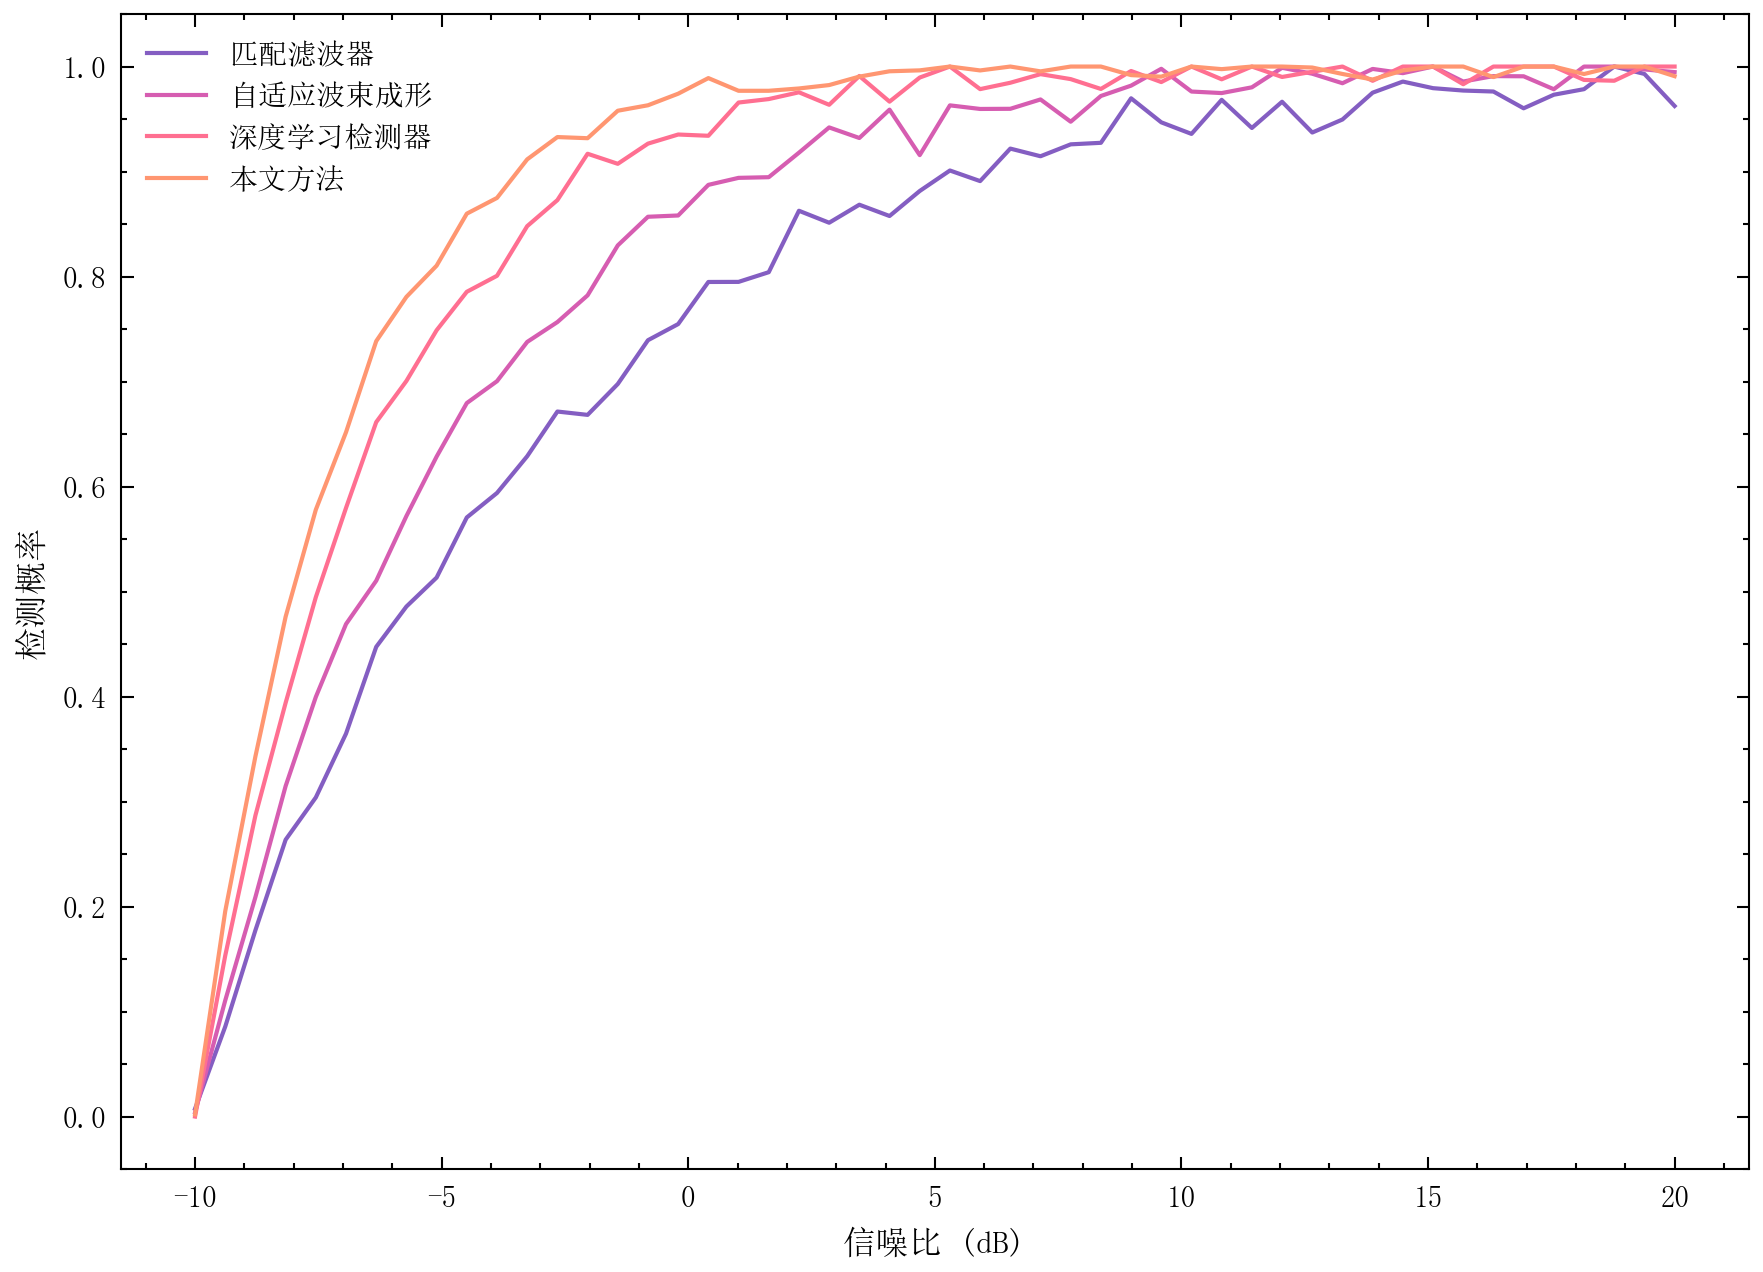
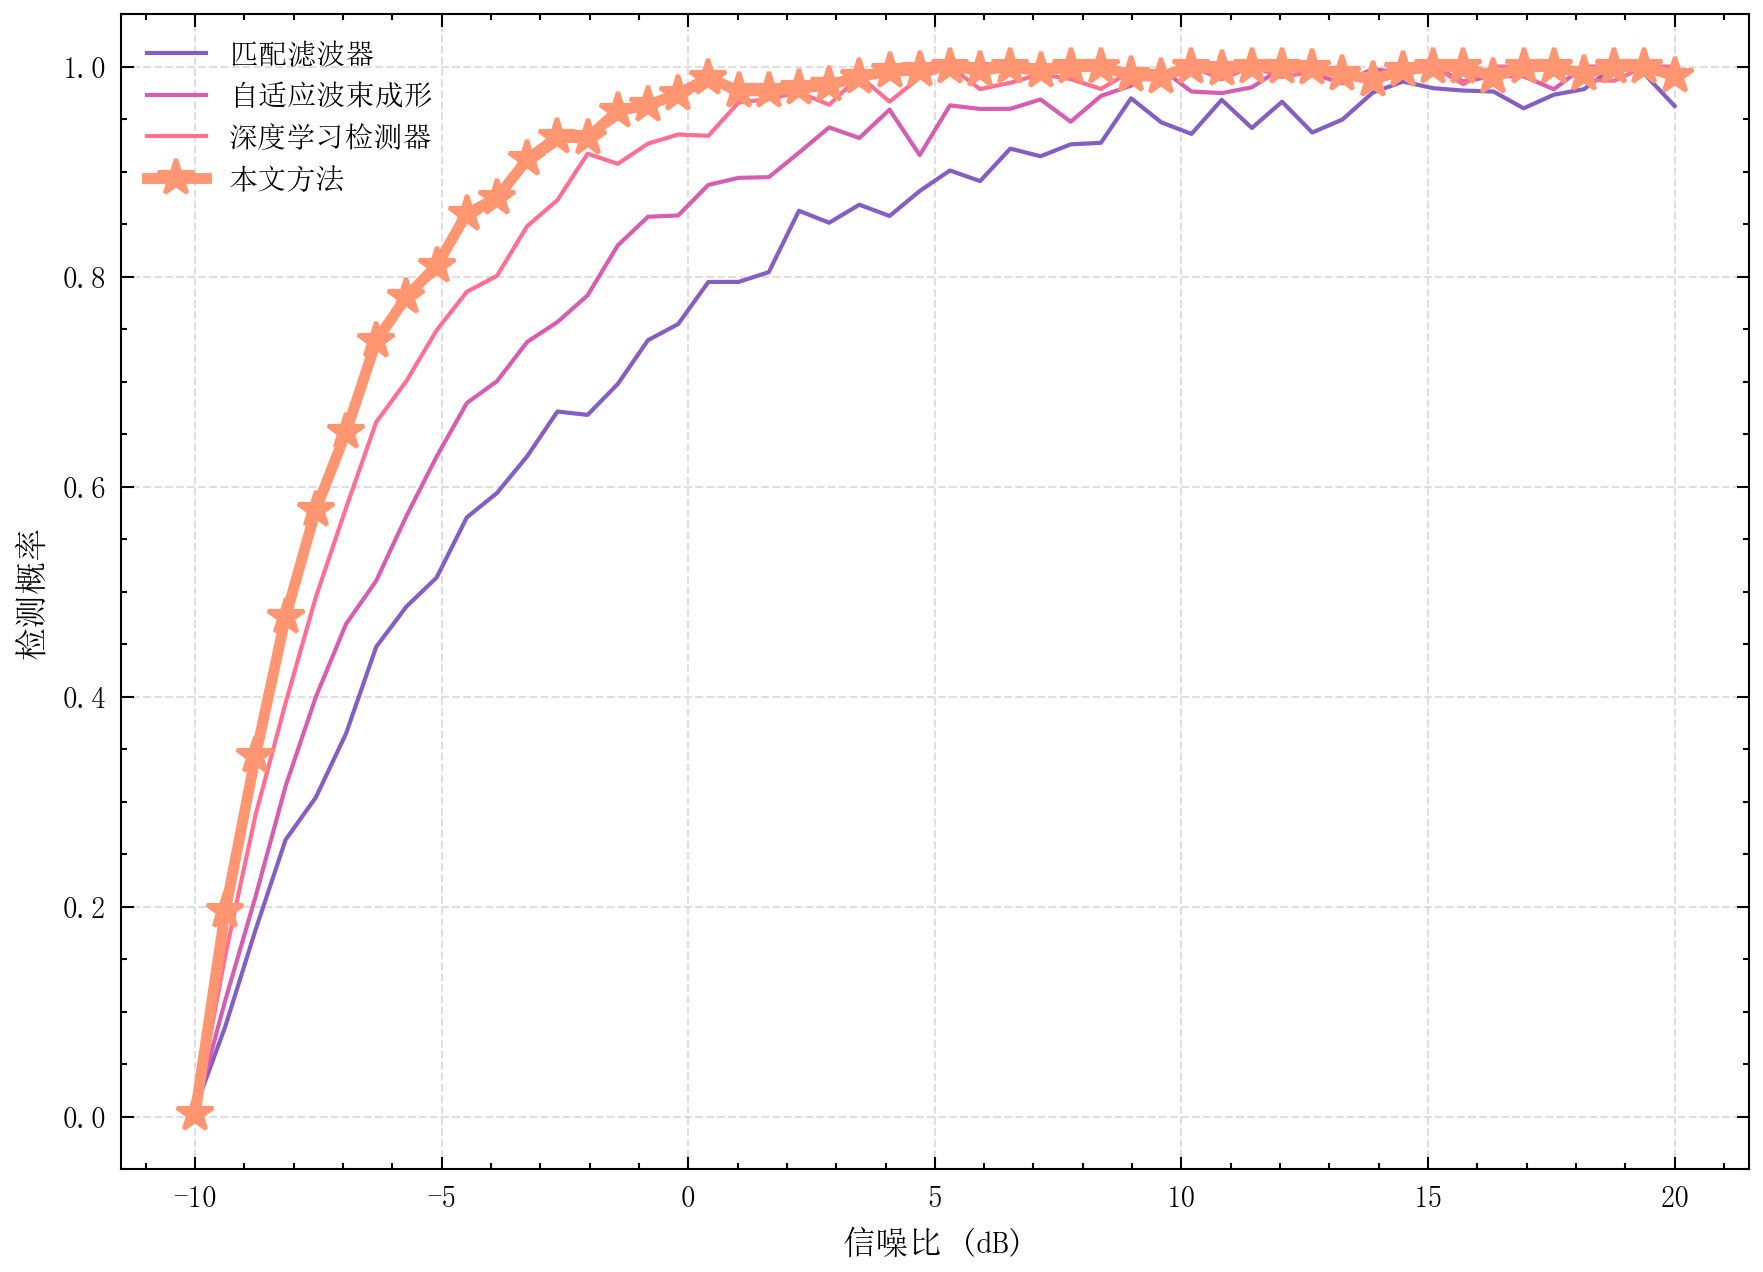
feat: plot_multi_line新增highlight_last高亮参数; showcase01重做(本文方法加粗星标+浅网格)

diff --git a/sciplot/_plots/basic.py b/sciplot/_plots/basic.py
@@ -145,6 +145,7 @@ def plot_multi_line(
     lang: Optional[str] = None,
     use_linestyles: bool = False,
     show_legend: bool = True,
+    highlight_last: bool = False,
     **kwargs: Any,
 ) -> PlotResult:
     """
@@ -154,6 +155,8 @@ def plot_multi_line(
         use_linestyles: True 时在不同颜色外叠加线型循环（- -- -. :），
                         提升黑白打印/色盲可读性
         show_legend   : 是否显示图例，默认 True；当 labels 为自动生成时可设为 False
+        highlight_last: 是否高亮最后一条线（加粗 + 星形标记），
+                        对比图中突出“本文方法”等主角线的惯例做法
         lang          : 语言设置
 
     示例:
@@ -184,7 +187,15 @@ def plot_multi_line(
         xi = x[i] if x_is_multi else x
         _validate_xy_lengths(xi, y, x_name=("x" if not x_is_multi else f"x[{i}]"), y_name=f"y_list[{i}]")  # type: ignore
         ls = LINE_STYLES[i % len(LINE_STYLES)] if use_linestyles else "-"
-        ax.plot(xi, y, label=lbl, linestyle=ls, **kwargs)
+        if highlight_last and i == len(y_list) - 1:
+            line_kwargs = dict(kwargs)
+            line_kwargs.setdefault("linewidth", 2.6)
+            line_kwargs.setdefault("marker", "*")
+            line_kwargs.setdefault("markersize", 9)
+            line_kwargs.setdefault("zorder", 5)
+            ax.plot(xi, y, label=lbl, linestyle=ls, **line_kwargs)
+        else:
+            ax.plot(xi, y, label=lbl, linestyle=ls, **kwargs)
 
     ax.set_xlabel(xlabel)
     ax.set_ylabel(ylabel)

diff --git a/showcase/01_multi_line.py b/showcase/01_multi_line.py
@@ -43,7 +43,9 @@ fig, ax = sp.plot_multi(
     xlabel="信噪比 (dB)",
     ylabel="检测概率",
     palette="pastel",
+    highlight_last=True,   # 本文方法加粗 + 星形标记
 )
+ax.grid(True, linestyle="--", alpha=0.4)  # 浅网格辅助读数
 
 # ── 保存 ──────────────────────────────────────────────────────
 sp.save(fig, "showcase/01_multi_line", formats=("png",), dpi=300)
